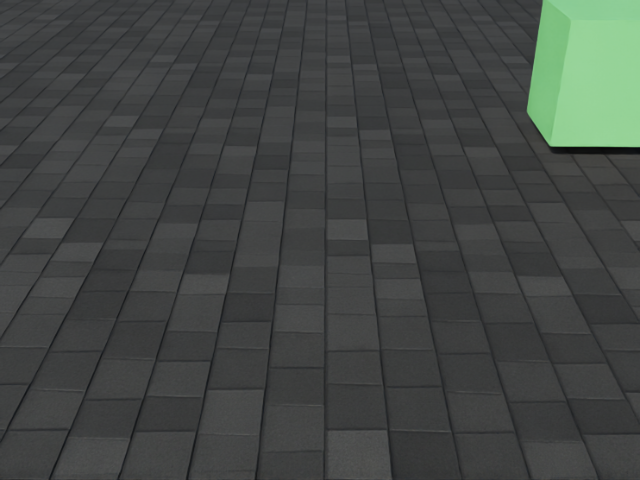
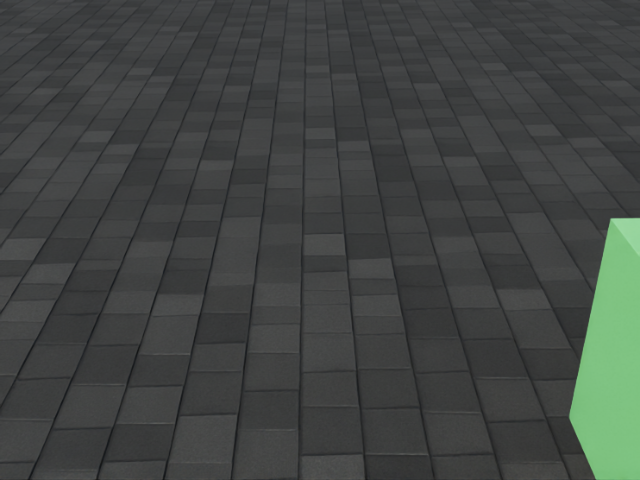
Updated walk_to_obj scene and prompt

diff --git a/pipeline/egocentric_camera.py b/pipeline/egocentric_camera.py
@@ -27,7 +27,7 @@ EGO_CAM_FOCAL_LENGTH = 24.0  # mm
 EGO_CAM_HORIZONTAL_APERTURE = 20.955  # mm
 EGO_CAM_CLIPPING = (0.05, 50.0)  # near / far in meters
 EGO_CAM_DEFAULT_PITCH_DEG = 50.0  # degrees downward
-EGO_CAM_OFFSET_FORWARD = 0.12  # meters forward from head center
+EGO_CAM_OFFSET_FORWARD = 0.15  # meters forward from head center
 
 # Key for the sensor in InteractiveScene
 _SCENE_KEY = "egocentric_camera"

diff --git a/tasks/walk_to_obj/create_scene.py b/tasks/walk_to_obj/create_scene.py
@@ -53,7 +53,7 @@ if __name__ == "__main__":
         "--box-pos",
         nargs=3,
         type=float,
-        default=[3.0, -1.1, 0.25],
+        default=[1.12, -0.8, 0.25],
         metavar=("X", "Y", "Z"),
     )
     parser.add_argument("--box-width", type=float, default=0.4)
